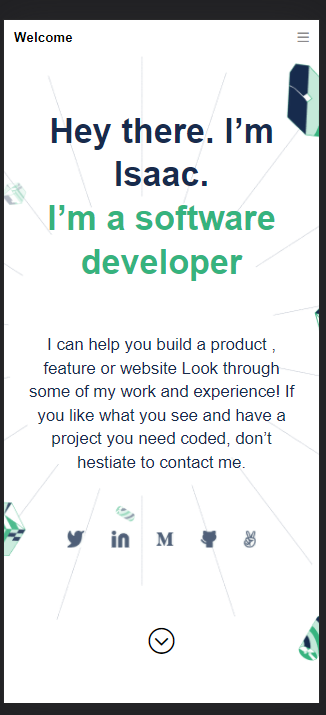
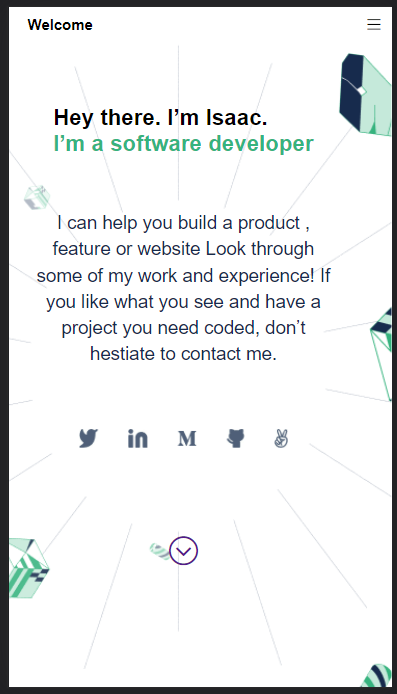
Fix responsiveness

diff --git a/mobile.css b/mobile.css
@@ -6,11 +6,12 @@
 }
 
 body {
-  min-height: 100vh;
+    min-height: 100vh;
 }
 
 main {
-  background: url(./images/header-illsutration-mobile@2x.png) no-repeat center center/cover;
+    min-width: 400px;
+    background: url(./images/header-illsutration-mobile@2x.png) no-repeat center center/cover;
 }
 
 .nav {
